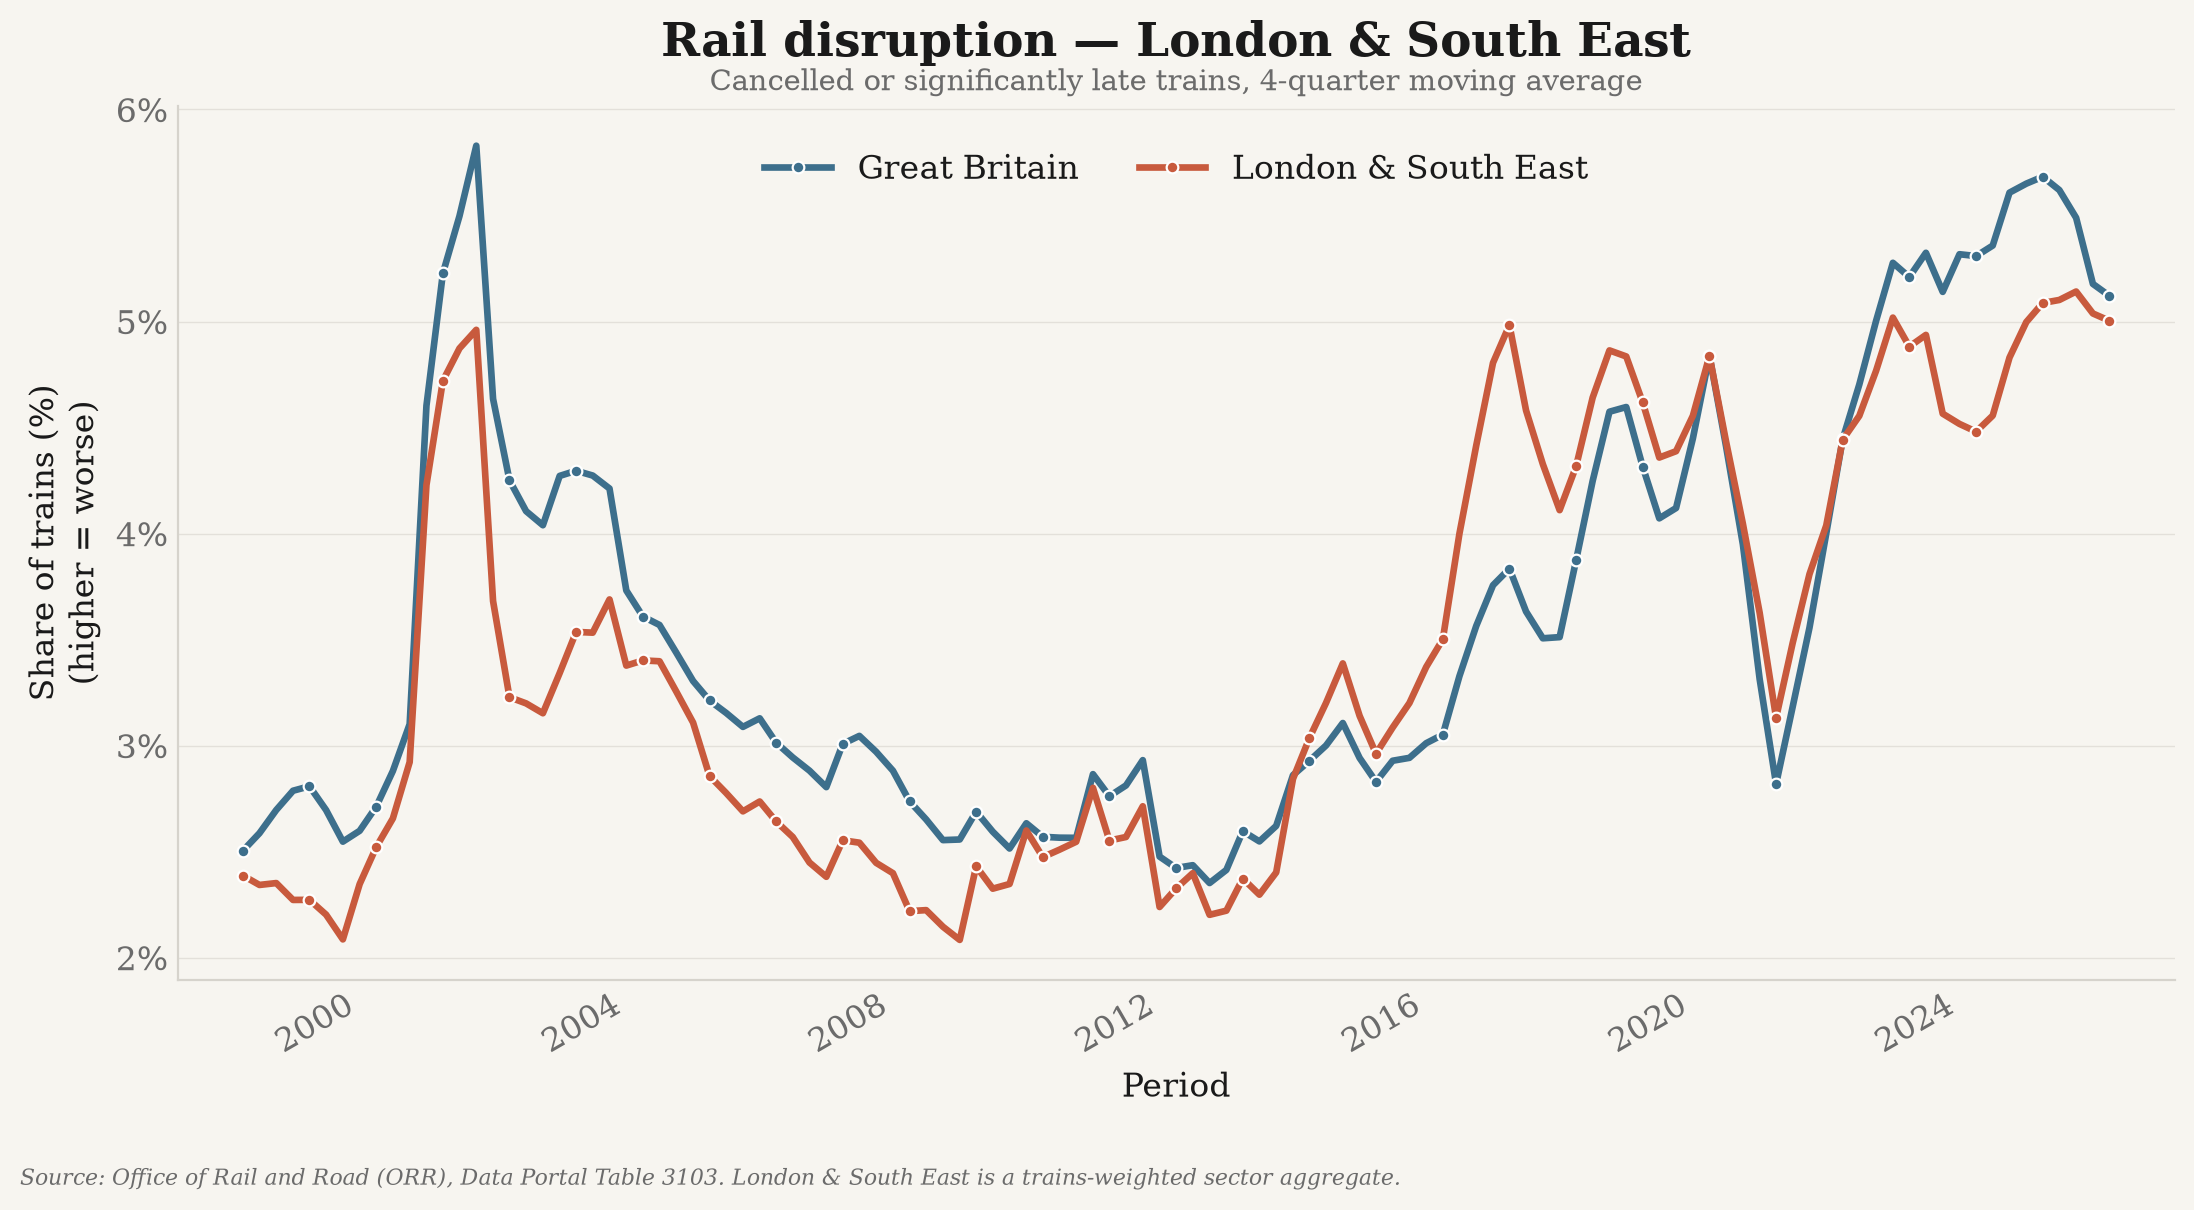
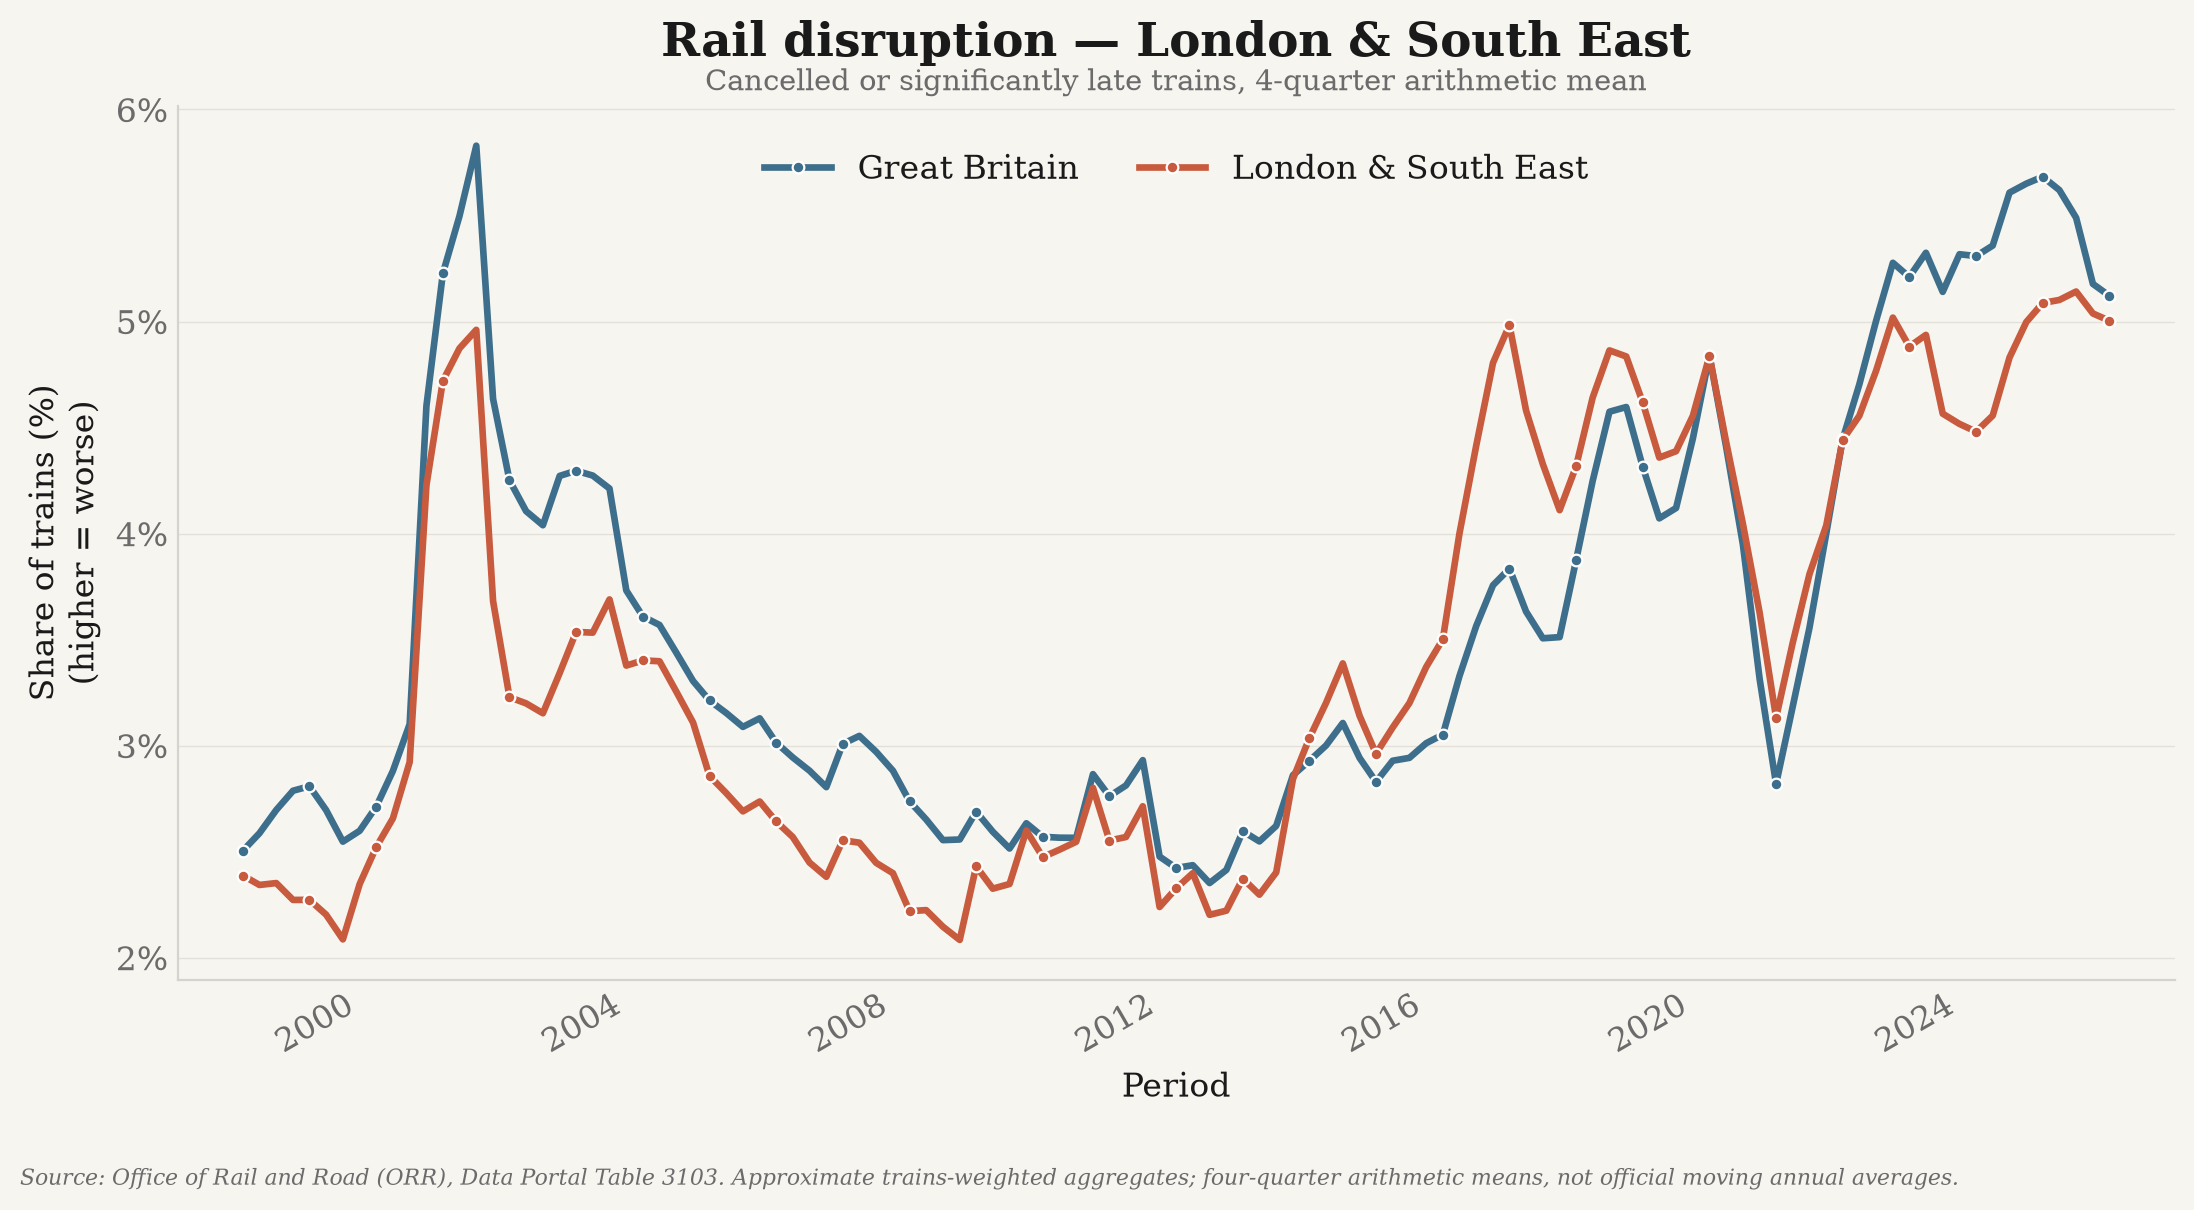
Correct rail validation claims and preserve missing-data gaps

Changed region(s): [[0.3409, 0.9479, 0.8678, 0.9785], [0.3099, 0.0612, 0.7438, 0.0917]]

diff --git a/rail_data/orr.py b/rail_data/orr.py
@@ -8,9 +8,10 @@ weighted by the number of trains it planned that quarter:
 
     sector_value = sum(operator_value * trains_planned) / sum(trains_planned)
 
-The operator -> sector membership below reproduces ORR's official "London and South East"
-sector to within ~0.2 percentage points on the 2019+ quarters where ORR *does* publish a
-sector figure (Table 3113), which validates both the membership set and the weighting.
+The operator -> sector membership below is an approximation, not ORR's official sector
+aggregate. Across 28 overlapping quarters (Apr-Jun 2019 to Jan-Mar 2026), it differs
+from Table 3113 by up to 0.51 percentage points; the reconstructed GB total differs
+by up to 0.19 points. Neither reconstruction should be described as exact.
 
 Two metrics are produced:
   - ``ppm_pct``  — Public Performance Measure: % of trains "on time" (arriving within
@@ -40,7 +41,7 @@ SOURCE = ("Office of Rail and Road (ORR) Data Portal, Table 3103 "
 # Franchise titles (Table 3103 column "Franchise title") that make up the ORR
 # "London and South East" sector. Grouping by franchise title folds operator renames
 # (e.g. Connex South Eastern -> South Eastern Trains -> Southeastern) into one series.
-# Validated against ORR's official sector figure (Table 3113), 2019+, to within ~0.2pp.
+# Approximate membership; see the independent Table 3113 comparison above.
 LONDON_SE_FRANCHISES = frozenset({
     "Chiltern Railways",
     "Crossrail",                                          # TfL Rail / Elizabeth line
@@ -131,6 +132,11 @@ def _weighted_series(trains: pd.DataFrame, values: pd.DataFrame,
                 continue
             t = _to_float(trains.iloc[i, j])
             v = _to_float(values.iloc[i, j])
+            if t is not None and t > 0 and v is None:
+                raise ValueError(
+                    f"ORR metric missing for positive planned trains: "
+                    f"{trains.iloc[i, _FRANCHISE_COL]}, {label}"
+                )
             if t is not None and t > 0 and v is not None:
                 weight_sum += t
                 weighted += t * v

diff --git a/rail_data/charts.py b/rail_data/charts.py
@@ -46,7 +46,10 @@ def _maa(df: pd.DataFrame, region: str, metric: str) -> pd.DataFrame:
         pd.date_range(sub["date"].min(), sub["date"].max(), freq="QE")
     ).rename_axis("date").reset_index()
     sub["maa"] = sub["value"].rolling(4, min_periods=4).mean()
-    return sub.dropna(subset=["maa"])
+    valid = sub.index[sub["maa"].notna()]
+    if valid.empty:
+        return sub.iloc[:0]
+    return sub.loc[valid[0]:valid[-1]]
 
 
 def _chart(df, metric, title, subtitle, ylabel, filename, out_dir):
@@ -92,7 +95,8 @@ def _chart(df, metric, title, subtitle, ylabel, filename, out_dir):
     source_note(
         fig,
         "Source: Office of Rail and Road (ORR), Data Portal Table 3103. "
-        "London & South East is a trains-weighted sector aggregate.",
+        "Approximate trains-weighted aggregates; four-quarter arithmetic means, "
+        "not official moving annual averages.",
     )
     fig.tight_layout(rect=[0, 0.055, 1, 1], pad=0.7)
     out_dir = pathlib.Path(out_dir)
@@ -109,7 +113,7 @@ def make_charts(source, out_dir="outputs/rail") -> list[pathlib.Path]:
     p = _chart(
         df, "casl_pct",
         "Rail disruption \u2014 London & South East",
-        "Cancelled or significantly late trains, 4-quarter moving average",
+        "Cancelled or significantly late trains, 4-quarter arithmetic mean",
         "Share of trains (%)\n(higher = worse)",
         "rail_london_casl.png", out_dir,
     )
@@ -118,7 +122,7 @@ def make_charts(source, out_dir="outputs/rail") -> list[pathlib.Path]:
     p = _chart(
         df, "ppm_pct",
         "Rail punctuality \u2014 London & South East",
-        "Public Performance Measure (PPM), 4-quarter moving average",
+        "Public Performance Measure (PPM), 4-quarter arithmetic mean",
         "Trains meeting PPM (%)",
         "rail_london_ppm.png", out_dir,
     )

diff --git a/tests/test_rail.py b/tests/test_rail.py
@@ -39,6 +39,15 @@ def test_orr_weighting_rejects_misaligned_operator_axes():
         orr._weighted_series(trains, values, orr.LONDON_SE_FRANCHISES)
 
 
+def test_orr_does_not_reweight_around_missing_positive_weight_metric():
+    trains, values = _sheets()
+    values.iloc[5, 4] = float("nan")
+    with pytest.raises(ValueError, match="metric missing for positive planned trains"):
+        orr._weighted_series(trains, values, orr.LONDON_SE_FRANCHISES)
+    trains.iloc[5, 4] = 0
+    assert orr._weighted_series(trains, values, orr.LONDON_SE_FRANCHISES)[0][1] == 80
+
+
 def test_rolling_mean_does_not_bridge_missing_quarters():
     df = pd.DataFrame({
         "region": [charts.LONDON] * 5,
@@ -51,3 +60,18 @@ def test_rolling_mean_does_not_bridge_missing_quarters():
     result = charts._maa(df, charts.LONDON, "ppm_pct")
     assert result["date"].tolist() == [pd.Timestamp("2021-09-30")]
     assert result["maa"].tolist() == [80]
+
+
+def test_rolling_series_retains_internal_gaps_for_plotting(monkeypatch, tmp_path):
+    dates = pd.date_range("2020-03-31", periods=10, freq="QE")
+    df = pd.DataFrame([
+        {"region": region, "metric": "ppm_pct", "date": date, "value": 80}
+        for region in (charts.LONDON, charts.GB)
+        for date in dates if date != dates[4]
+    ])
+    captured = []
+    monkeypatch.setattr(charts.plt.Figure, "savefig", lambda fig, *a, **k: captured.append(fig))
+    charts._chart(df, "ppm_pct", "Title", "Subtitle", "Percent", "test.png", tmp_path)
+    for line in captured[0].axes[0].lines:
+        assert pd.isna(line.get_ydata()).sum() == 4
+        assert list(pd.to_datetime(line.get_xdata())) == list(dates[3:])

diff --git a/rail_data/README.md b/rail_data/README.md
@@ -39,11 +39,17 @@ ORR's trains-weighted annual moving average; it is omitted across missing quarte
 - `quarter` uses calendar quarters, consistent with `year` and the quarter-end
   `date` (Jan–Mar is Q1). Positional weighting rejects mismatched operator/period
   layouts; blank/non-finite cells are not valid observations.
-- **Validation:** on the 2019+ quarters where ORR *does* publish a "London and South
-  East" sector figure (Table 3113), this reconstruction matches to within **~0.2
-  percentage points**, confirming both the membership set and the weighting. The same
-  method reproduces ORR's official **Great Britain** PPM exactly (e.g. Jan–Mar 2020 =
-  85.8%).
+  An operator with positive planned trains but a missing metric causes an explicit
+  error, rather than silently reweighting the remaining operators.
+- **Independent comparison, 12 October 2026:** across **28 quarters, April–June
+  2019 to January–March 2026**, the maximum absolute difference from official
+  Table 3113 PPM is **0.51 percentage points for London and South East** and
+  **0.19 points for Great Britain**. The earlier claims of 0.2-point sector
+  agreement and exact GB reproduction were unsupported. These are approximate,
+  consistently reconstructed operator aggregates, not the official sector series.
+- Charts smooth each reconstructed percentage with an **arithmetic mean of four
+  consecutive quarters**, not ORR's trains-weighted moving annual average.
+  Missing quarters invalidate the window and remain gaps in plotted lines.
 
 ## Run
 
